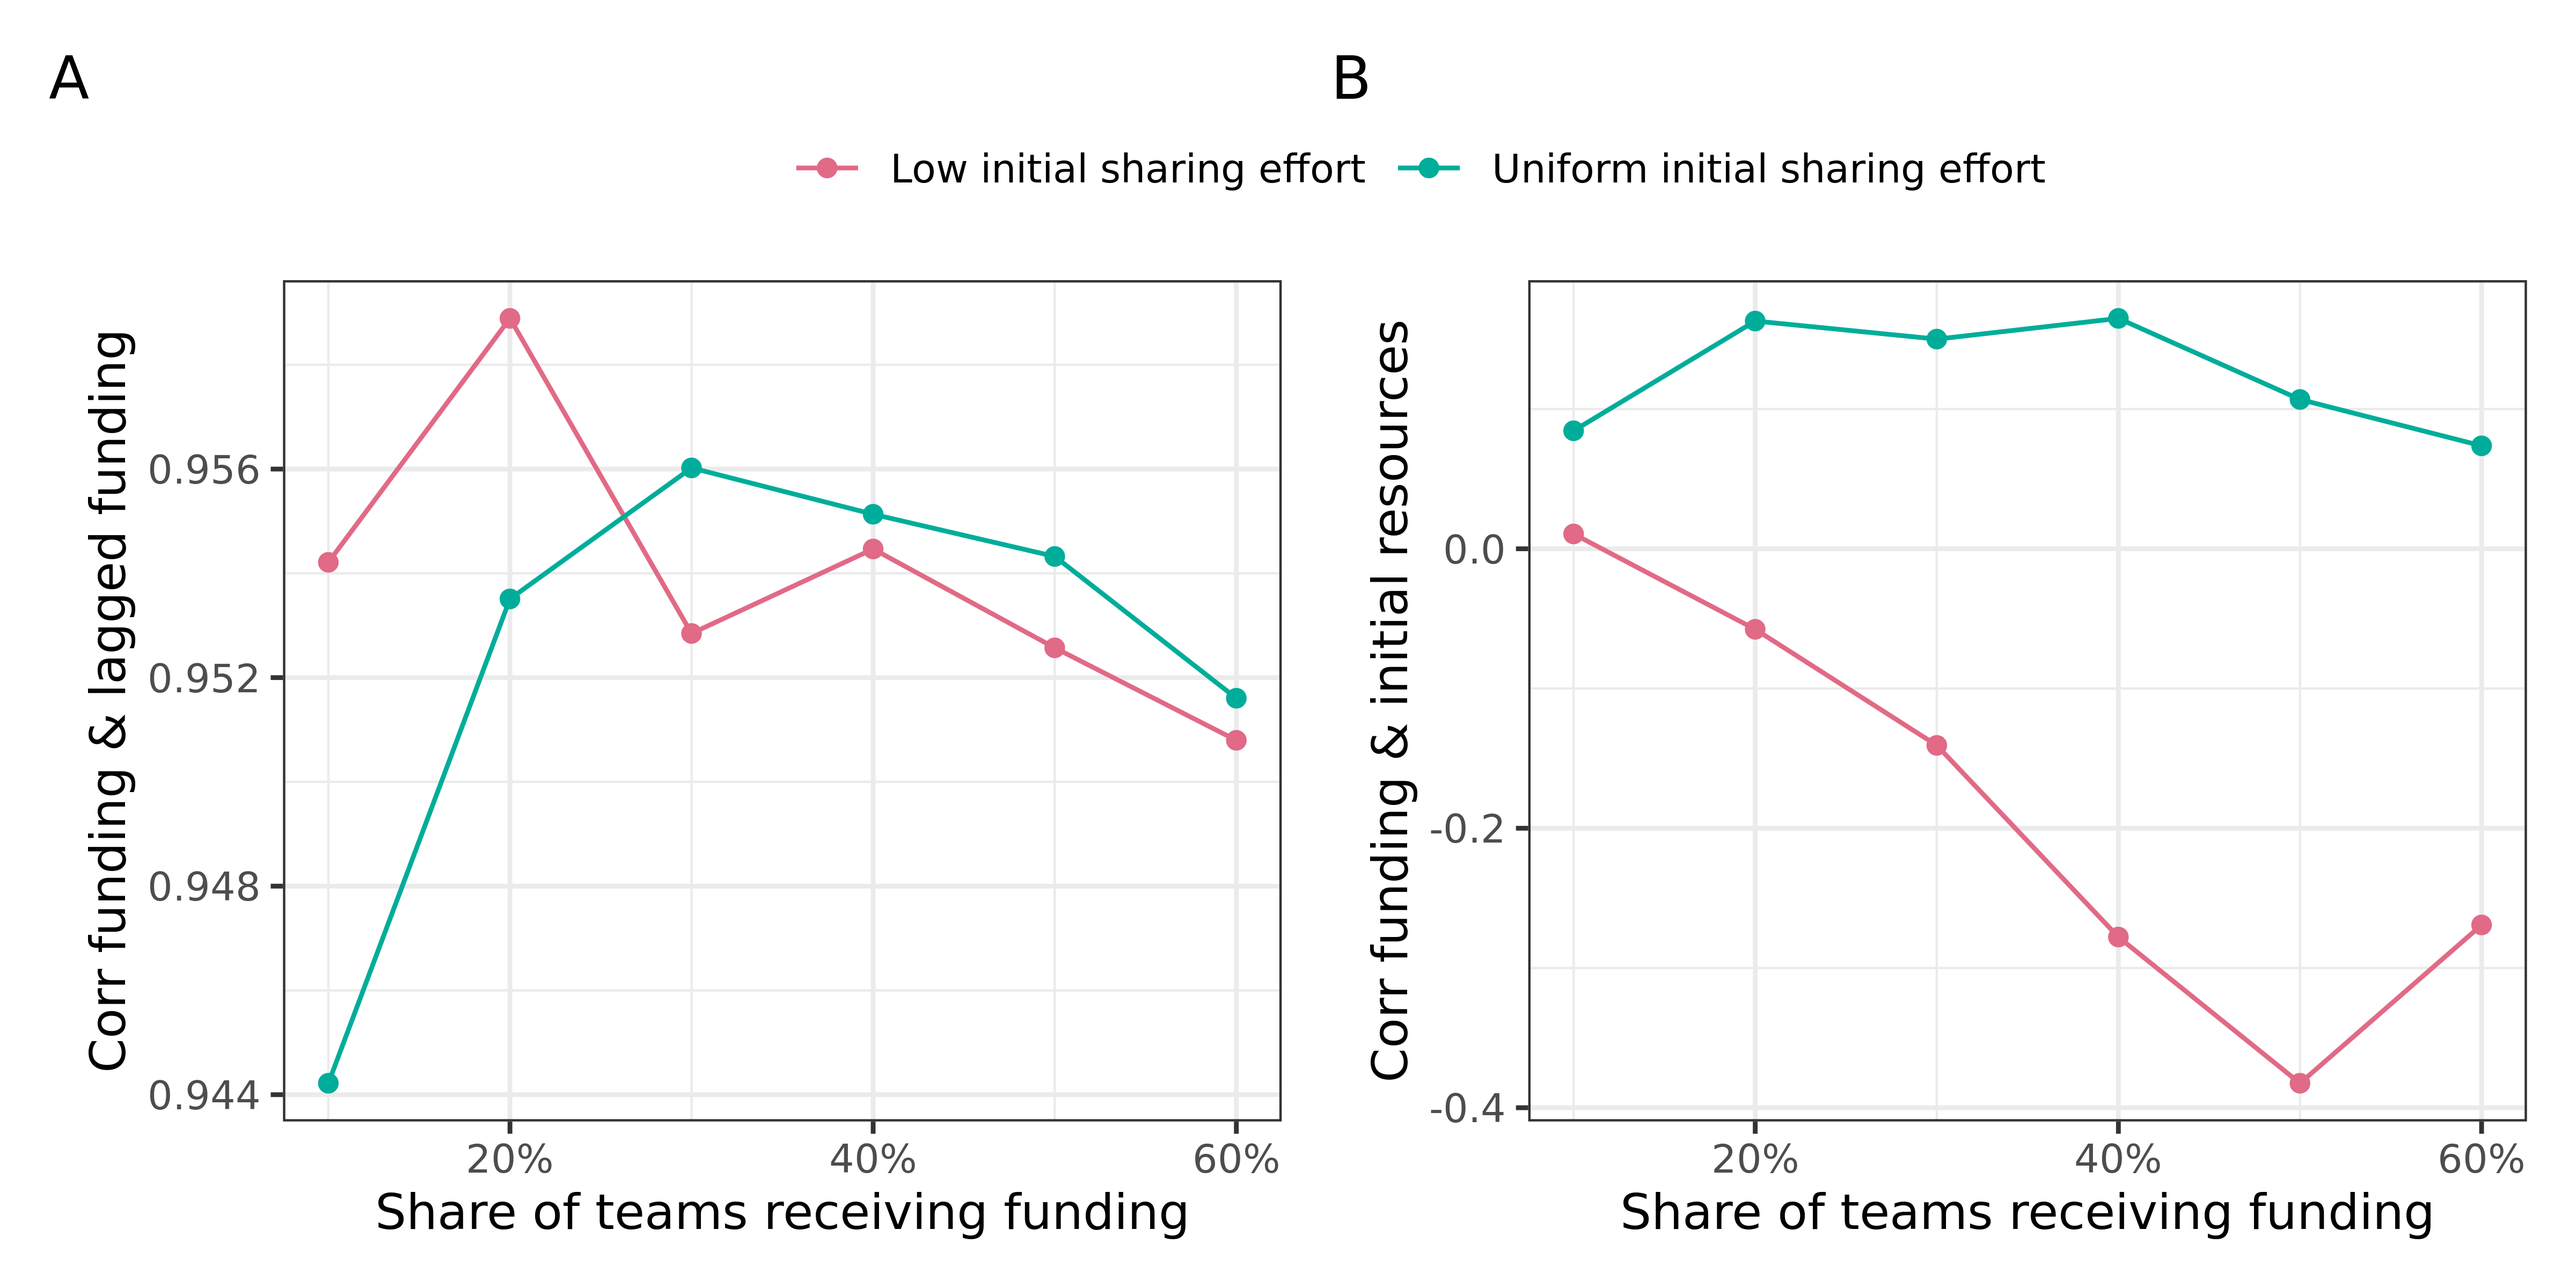
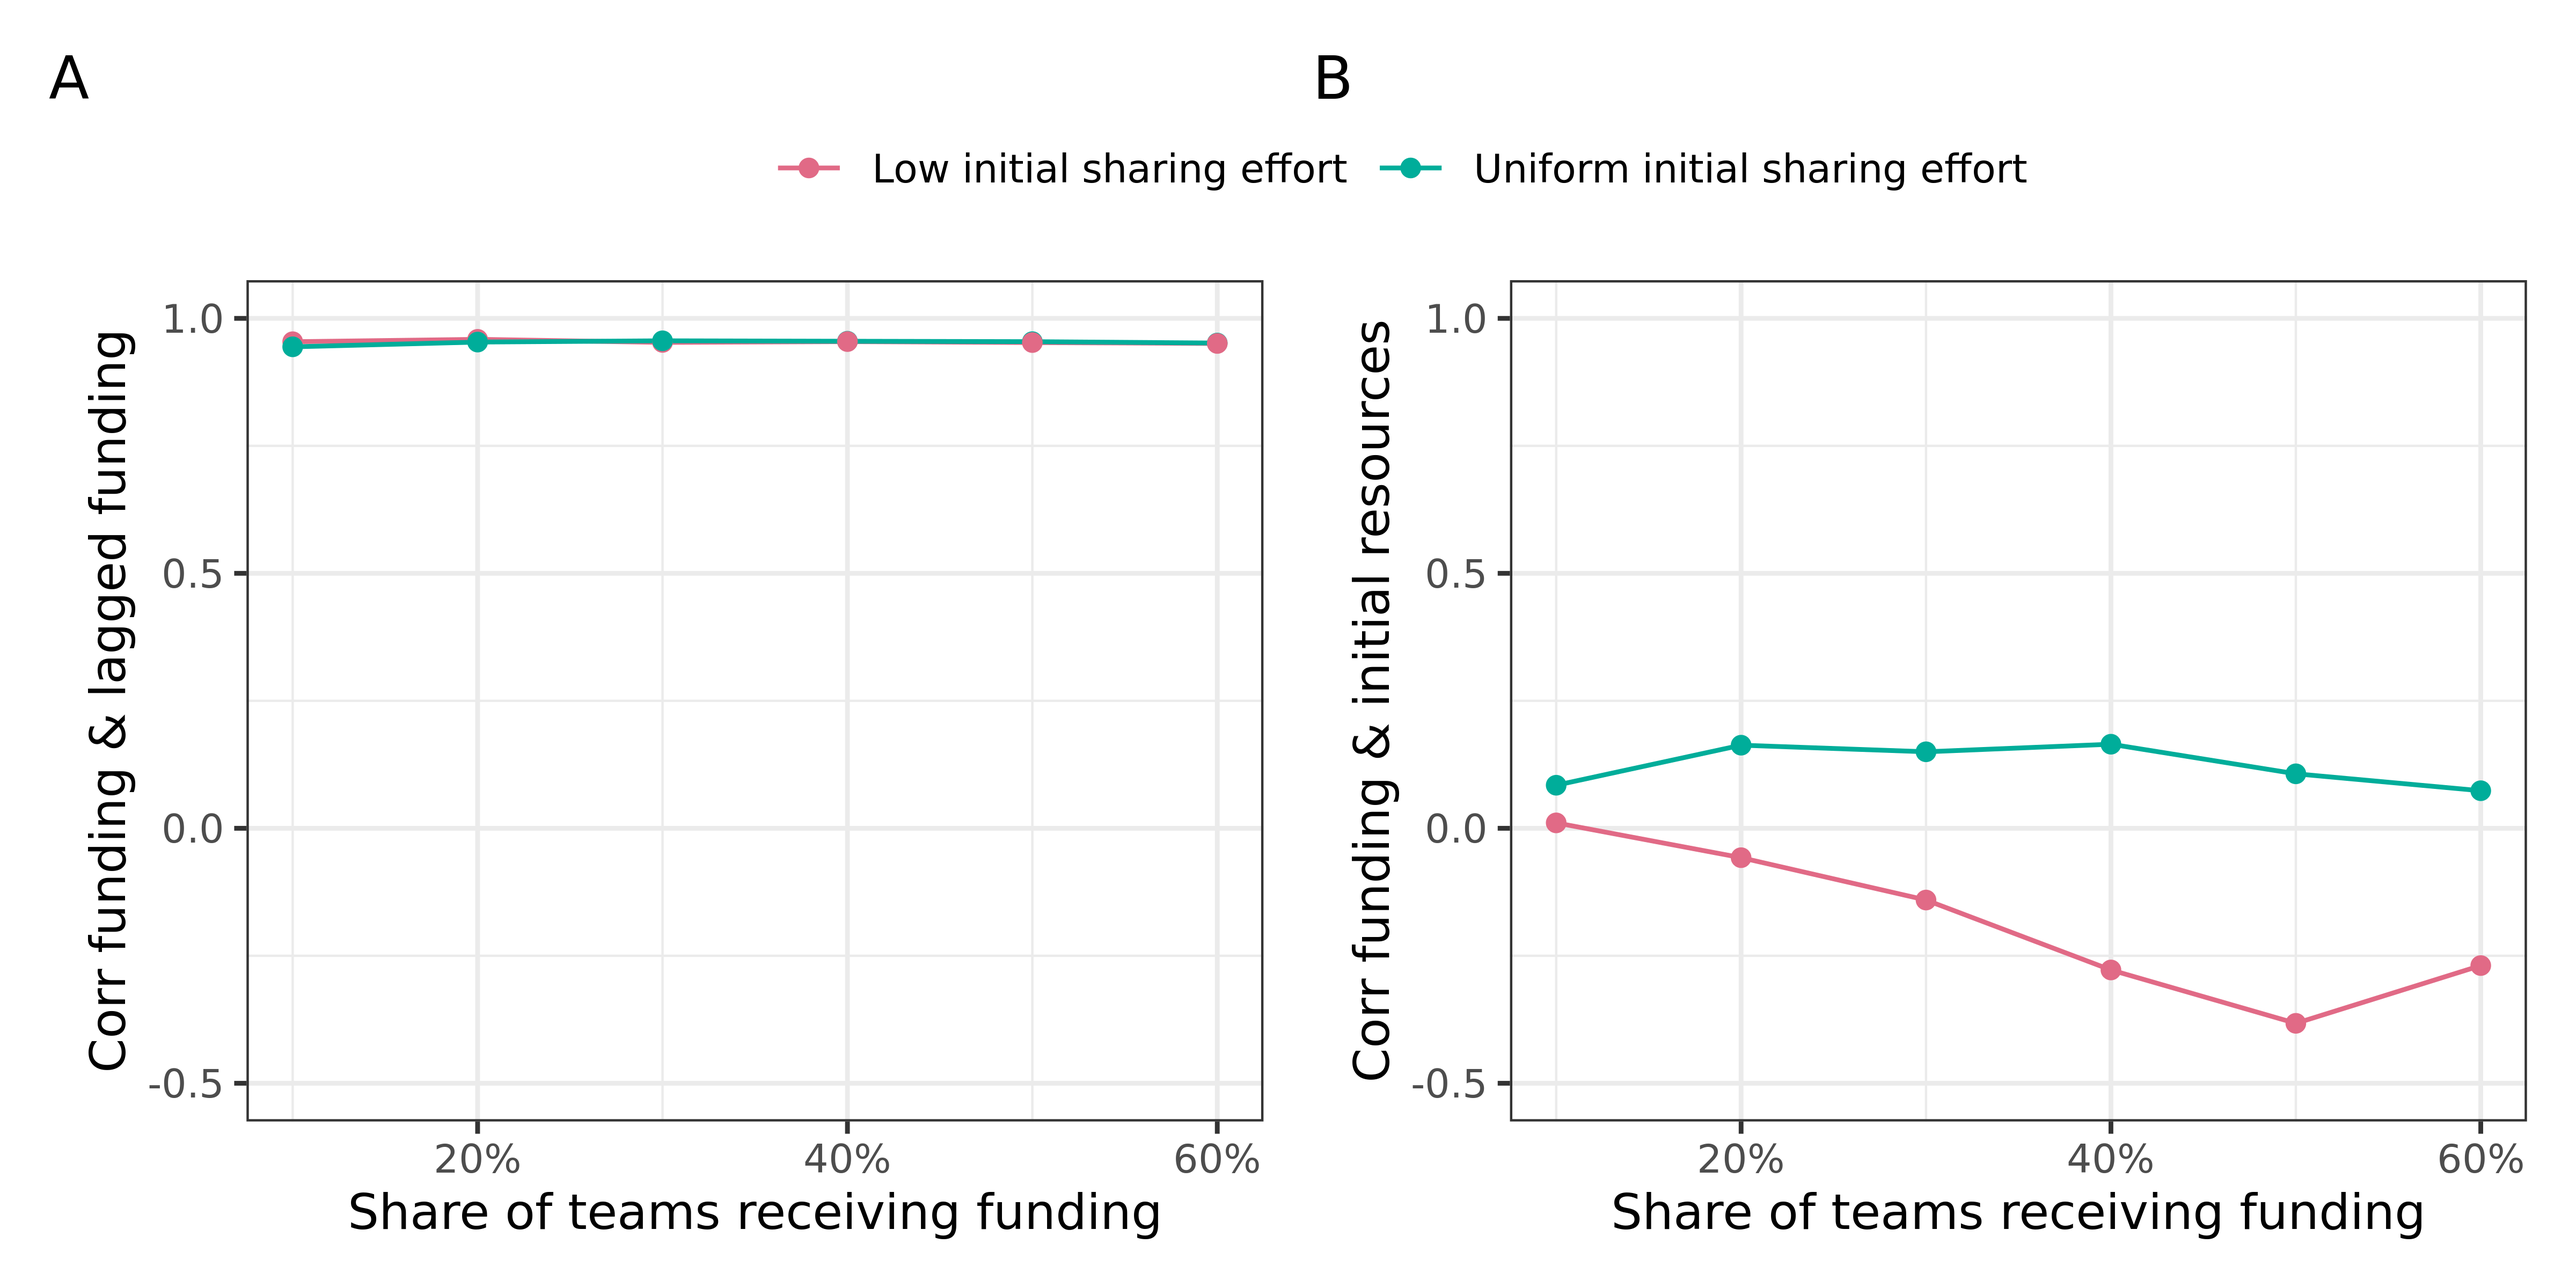
knit

diff --git a/analysis/04-funder-selectivity-individual-data.html b/analysis/04-funder-selectivity-individual-data.html
@@ -323,15 +323,16 @@ the `.groups` argument.</code></pre>
 <div class="cell">
 <details>
 <summary>Code</summary>
-<div class="sourceCode cell-code" id="cb10"><pre class="sourceCode r code-with-copy"><code class="sourceCode r"><span id="cb10-1"><a href="#cb10-1" aria-hidden="true" tabindex="-1"></a>p1 <span class="sc">+</span> p2 <span class="sc">+</span></span>
-<span id="cb10-2"><a href="#cb10-2" aria-hidden="true" tabindex="-1"></a>  <span class="fu">plot_layout</span>(<span class="at">guides =</span> <span class="st">"collect"</span>) <span class="sc">+</span> </span>
-<span id="cb10-3"><a href="#cb10-3" aria-hidden="true" tabindex="-1"></a>  <span class="fu">plot_annotation</span>(<span class="at">tag_levels =</span> <span class="st">"A"</span>) <span class="sc">&amp;</span> <span class="fu">theme</span>(<span class="at">legend.position =</span> <span class="st">"top"</span>)</span></code><button title="Copy to Clipboard" class="code-copy-button"><i class="bi"></i></button></pre></div>
+<div class="sourceCode cell-code" id="cb10"><pre class="sourceCode r code-with-copy"><code class="sourceCode r"><span id="cb10-1"><a href="#cb10-1" aria-hidden="true" tabindex="-1"></a>p1 <span class="sc">+</span> <span class="fu">scale_y_continuous</span>(<span class="at">limits =</span> <span class="fu">c</span>(<span class="sc">-</span>.<span class="dv">5</span>, <span class="dv">1</span>)) <span class="sc">+</span></span>
+<span id="cb10-2"><a href="#cb10-2" aria-hidden="true" tabindex="-1"></a>  p2 <span class="sc">+</span> <span class="fu">scale_y_continuous</span>(<span class="at">limits =</span> <span class="fu">c</span>(<span class="sc">-</span>.<span class="dv">5</span>, <span class="dv">1</span>)) <span class="sc">+</span></span>
+<span id="cb10-3"><a href="#cb10-3" aria-hidden="true" tabindex="-1"></a>  <span class="fu">plot_layout</span>(<span class="at">guides =</span> <span class="st">"collect"</span>) <span class="sc">+</span> </span>
+<span id="cb10-4"><a href="#cb10-4" aria-hidden="true" tabindex="-1"></a>  <span class="fu">plot_annotation</span>(<span class="at">tag_levels =</span> <span class="st">"A"</span>) <span class="sc">&amp;</span> <span class="fu">theme</span>(<span class="at">legend.position =</span> <span class="st">"top"</span>)</span></code><button title="Copy to Clipboard" class="code-copy-button"><i class="bi"></i></button></pre></div>
 </details>
 <div class="cell-output-display">
-<div class="quarto-figure quarto-figure-center">
+<div id="fig-corrs-low-clustering-network" class="quarto-figure quarto-figure-center anchored">
 <figure class="figure">
-<p><img src="04-funder-selectivity-individual-data_files/figure-html/corrs-low-clustering-network-1.png" class="img-fluid figure-img" width="2400"></p>
-<p></p><figcaption class="figure-caption">Path dependency with low clustering network condition. (A) Pearson correlation between current funding status (yes/no) and funding status at t-1. (B) Pearson correlation between current funding status and initial resources.</figcaption><p></p>
+<p><img src="04-funder-selectivity-individual-data_files/figure-html/fig-corrs-low-clustering-network-1.png" class="img-fluid figure-img" width="2400"></p>
+<p></p><figcaption class="figure-caption">Figure&nbsp;1: Path dependency with low clustering network condition. (A) Pearson correlation between current funding status (yes/no) and funding status at t-1. (B) Pearson correlation between current funding status and initial resources.</figcaption><p></p>
 </figure>
 </div>
 </div>
@@ -500,15 +501,16 @@ the `.groups` argument.</code></pre>
 <div class="cell">
 <details>
 <summary>Code</summary>
-<div class="sourceCode cell-code" id="cb19"><pre class="sourceCode r code-with-copy"><code class="sourceCode r"><span id="cb19-1"><a href="#cb19-1" aria-hidden="true" tabindex="-1"></a>p1 <span class="sc">+</span> p2 <span class="sc">+</span></span>
-<span id="cb19-2"><a href="#cb19-2" aria-hidden="true" tabindex="-1"></a>  <span class="fu">plot_layout</span>(<span class="at">guides =</span> <span class="st">"collect"</span>) <span class="sc">+</span> </span>
-<span id="cb19-3"><a href="#cb19-3" aria-hidden="true" tabindex="-1"></a>  <span class="fu">plot_annotation</span>(<span class="at">tag_levels =</span> <span class="st">"A"</span>) <span class="sc">&amp;</span> <span class="fu">theme</span>(<span class="at">legend.position =</span> <span class="st">"top"</span>)</span></code><button title="Copy to Clipboard" class="code-copy-button"><i class="bi"></i></button></pre></div>
+<div class="sourceCode cell-code" id="cb19"><pre class="sourceCode r code-with-copy"><code class="sourceCode r"><span id="cb19-1"><a href="#cb19-1" aria-hidden="true" tabindex="-1"></a>p1 <span class="sc">+</span> <span class="fu">scale_y_continuous</span>(<span class="at">limits =</span> <span class="fu">c</span>(<span class="sc">-</span>.<span class="dv">2</span>, <span class="dv">1</span>)) <span class="sc">+</span></span>
+<span id="cb19-2"><a href="#cb19-2" aria-hidden="true" tabindex="-1"></a>  p2 <span class="sc">+</span> <span class="fu">scale_y_continuous</span>(<span class="at">limits =</span> <span class="fu">c</span>(<span class="sc">-</span>.<span class="dv">2</span>, <span class="dv">1</span>)) <span class="sc">+</span></span>
+<span id="cb19-3"><a href="#cb19-3" aria-hidden="true" tabindex="-1"></a>  <span class="fu">plot_layout</span>(<span class="at">guides =</span> <span class="st">"collect"</span>) <span class="sc">+</span> </span>
+<span id="cb19-4"><a href="#cb19-4" aria-hidden="true" tabindex="-1"></a>  <span class="fu">plot_annotation</span>(<span class="at">tag_levels =</span> <span class="st">"A"</span>) <span class="sc">&amp;</span> <span class="fu">theme</span>(<span class="at">legend.position =</span> <span class="st">"top"</span>)</span></code><button title="Copy to Clipboard" class="code-copy-button"><i class="bi"></i></button></pre></div>
 </details>
 <div class="cell-output-display">
-<div class="quarto-figure quarto-figure-center">
+<div id="fig-corrs-no-network" class="quarto-figure quarto-figure-center anchored">
 <figure class="figure">
-<p><img src="04-funder-selectivity-individual-data_files/figure-html/corrs-no-network-1.png" class="img-fluid figure-img" width="2400"></p>
-<p></p><figcaption class="figure-caption">Path dependency under ‘no network’ condition. (A) Pearson correlation between current funding status (yes/no) and funding status at t-1. (B) Pearson correlation between current funding status and initial resources.</figcaption><p></p>
+<p><img src="04-funder-selectivity-individual-data_files/figure-html/fig-corrs-no-network-1.png" class="img-fluid figure-img" width="2400"></p>
+<p></p><figcaption class="figure-caption">Figure&nbsp;2: Path dependency under ‘no network’ condition. (A) Pearson correlation between current funding status (yes/no) and funding status at t-1. (B) Pearson correlation between current funding status and initial resources.</figcaption><p></p>
 </figure>
 </div>
 </div>
@@ -753,7 +755,7 @@ the `.groups` argument.</code></pre>
 <div id="fig-low-degree-frac" class="quarto-figure quarto-figure-center anchored">
 <figure class="figure">
 <p><img src="04-funder-selectivity-individual-data_files/figure-html/fig-low-degree-frac-1.png" class="img-fluid figure-img" width="1500"></p>
-<p></p><figcaption class="figure-caption">Figure&nbsp;1: Representation of low-degree teams among funded teams. The dashed line indicates the share of teams with low degree in the sample. Values above the dashed line thus signal an over-representation of low-degree teams.</figcaption><p></p>
+<p></p><figcaption class="figure-caption">Figure&nbsp;3: Representation of low-degree teams among funded teams. The dashed line indicates the share of teams with low degree in the sample. Values above the dashed line thus signal an over-representation of low-degree teams.</figcaption><p></p>
 </figure>
 </div>
 </div>
@@ -794,7 +796,7 @@ the `.groups` argument.</code></pre>
 <div id="fig-low-degree-frac-sharing" class="quarto-figure quarto-figure-center anchored">
 <figure class="figure">
 <p><img src="04-funder-selectivity-individual-data_files/figure-html/fig-low-degree-frac-sharing-1.png" class="img-fluid figure-img" width="1500"></p>
-<p></p><figcaption class="figure-caption">Figure&nbsp;2: Representation of low-degree teams among teams sharing data. The dashed line indicates the share of teams with low degree in the sample. Values above the dashed line thus signal an over-representation of low-degree teams.</figcaption><p></p>
+<p></p><figcaption class="figure-caption">Figure&nbsp;4: Representation of low-degree teams among teams sharing data. The dashed line indicates the share of teams with low degree in the sample. Values above the dashed line thus signal an over-representation of low-degree teams.</figcaption><p></p>
 </figure>
 </div>
 </div>
@@ -811,7 +813,7 @@ the `.groups` argument.</code></pre>
 <div id="fig-low-degree-sharing-and-funding" class="quarto-figure quarto-figure-center anchored">
 <figure class="figure">
 <p><img src="04-funder-selectivity-individual-data_files/figure-html/fig-low-degree-sharing-and-funding-1.png" class="img-fluid figure-img" width="2400"></p>
-<p></p><figcaption class="figure-caption">Figure&nbsp;3: Fractions of low degree teams who (A) are funded, or (B) share data. Low degree teams are defined as teams with below median degree.</figcaption><p></p>
+<p></p><figcaption class="figure-caption">Figure&nbsp;5: Fractions of low degree teams who (A) are funded, or (B) share data. Low degree teams are defined as teams with below median degree.</figcaption><p></p>
 </figure>
 </div>
 </div>

diff --git a/analysis/04-funder-selectivity-individual-data.md b/analysis/04-funder-selectivity-individual-data.md
@@ -177,13 +177,14 @@ are less successful under the incentive regime.
 ::: {.cell}
 
 ```{.r .cell-code}
-p1 + p2 +
+p1 + scale_y_continuous(limits = c(-.5, 1)) +
+  p2 + scale_y_continuous(limits = c(-.5, 1)) +
   plot_layout(guides = "collect") + 
   plot_annotation(tag_levels = "A") & theme(legend.position = "top")
 ```
 
 ::: {.cell-output-display}
-![Path dependency with low clustering network condition. (A) Pearson correlation between current funding status (yes/no) and funding status at t-1. (B) Pearson correlation between current funding status and initial resources.](04-funder-selectivity-individual-data_files/figure-html/corrs-low-clustering-network-1.png){width=2400}
+![Path dependency with low clustering network condition. (A) Pearson correlation between current funding status (yes/no) and funding status at t-1. (B) Pearson correlation between current funding status and initial resources.](04-funder-selectivity-individual-data_files/figure-html/fig-corrs-low-clustering-network-1.png){#fig-corrs-low-clustering-network width=2400}
 :::
 :::
 
@@ -318,13 +319,14 @@ play a stronger role - there is more path dependency.
 ::: {.cell}
 
 ```{.r .cell-code}
-p1 + p2 +
+p1 + scale_y_continuous(limits = c(-.2, 1)) +
+  p2 + scale_y_continuous(limits = c(-.2, 1)) +
   plot_layout(guides = "collect") + 
   plot_annotation(tag_levels = "A") & theme(legend.position = "top")
 ```
 
 ::: {.cell-output-display}
-![Path dependency under 'no network' condition. (A) Pearson correlation between current funding status (yes/no) and funding status at t-1. (B) Pearson correlation between current funding status and initial resources.](04-funder-selectivity-individual-data_files/figure-html/corrs-no-network-1.png){width=2400}
+![Path dependency under 'no network' condition. (A) Pearson correlation between current funding status (yes/no) and funding status at t-1. (B) Pearson correlation between current funding status and initial resources.](04-funder-selectivity-individual-data_files/figure-html/fig-corrs-no-network-1.png){#fig-corrs-no-network width=2400}
 :::
 :::
 
